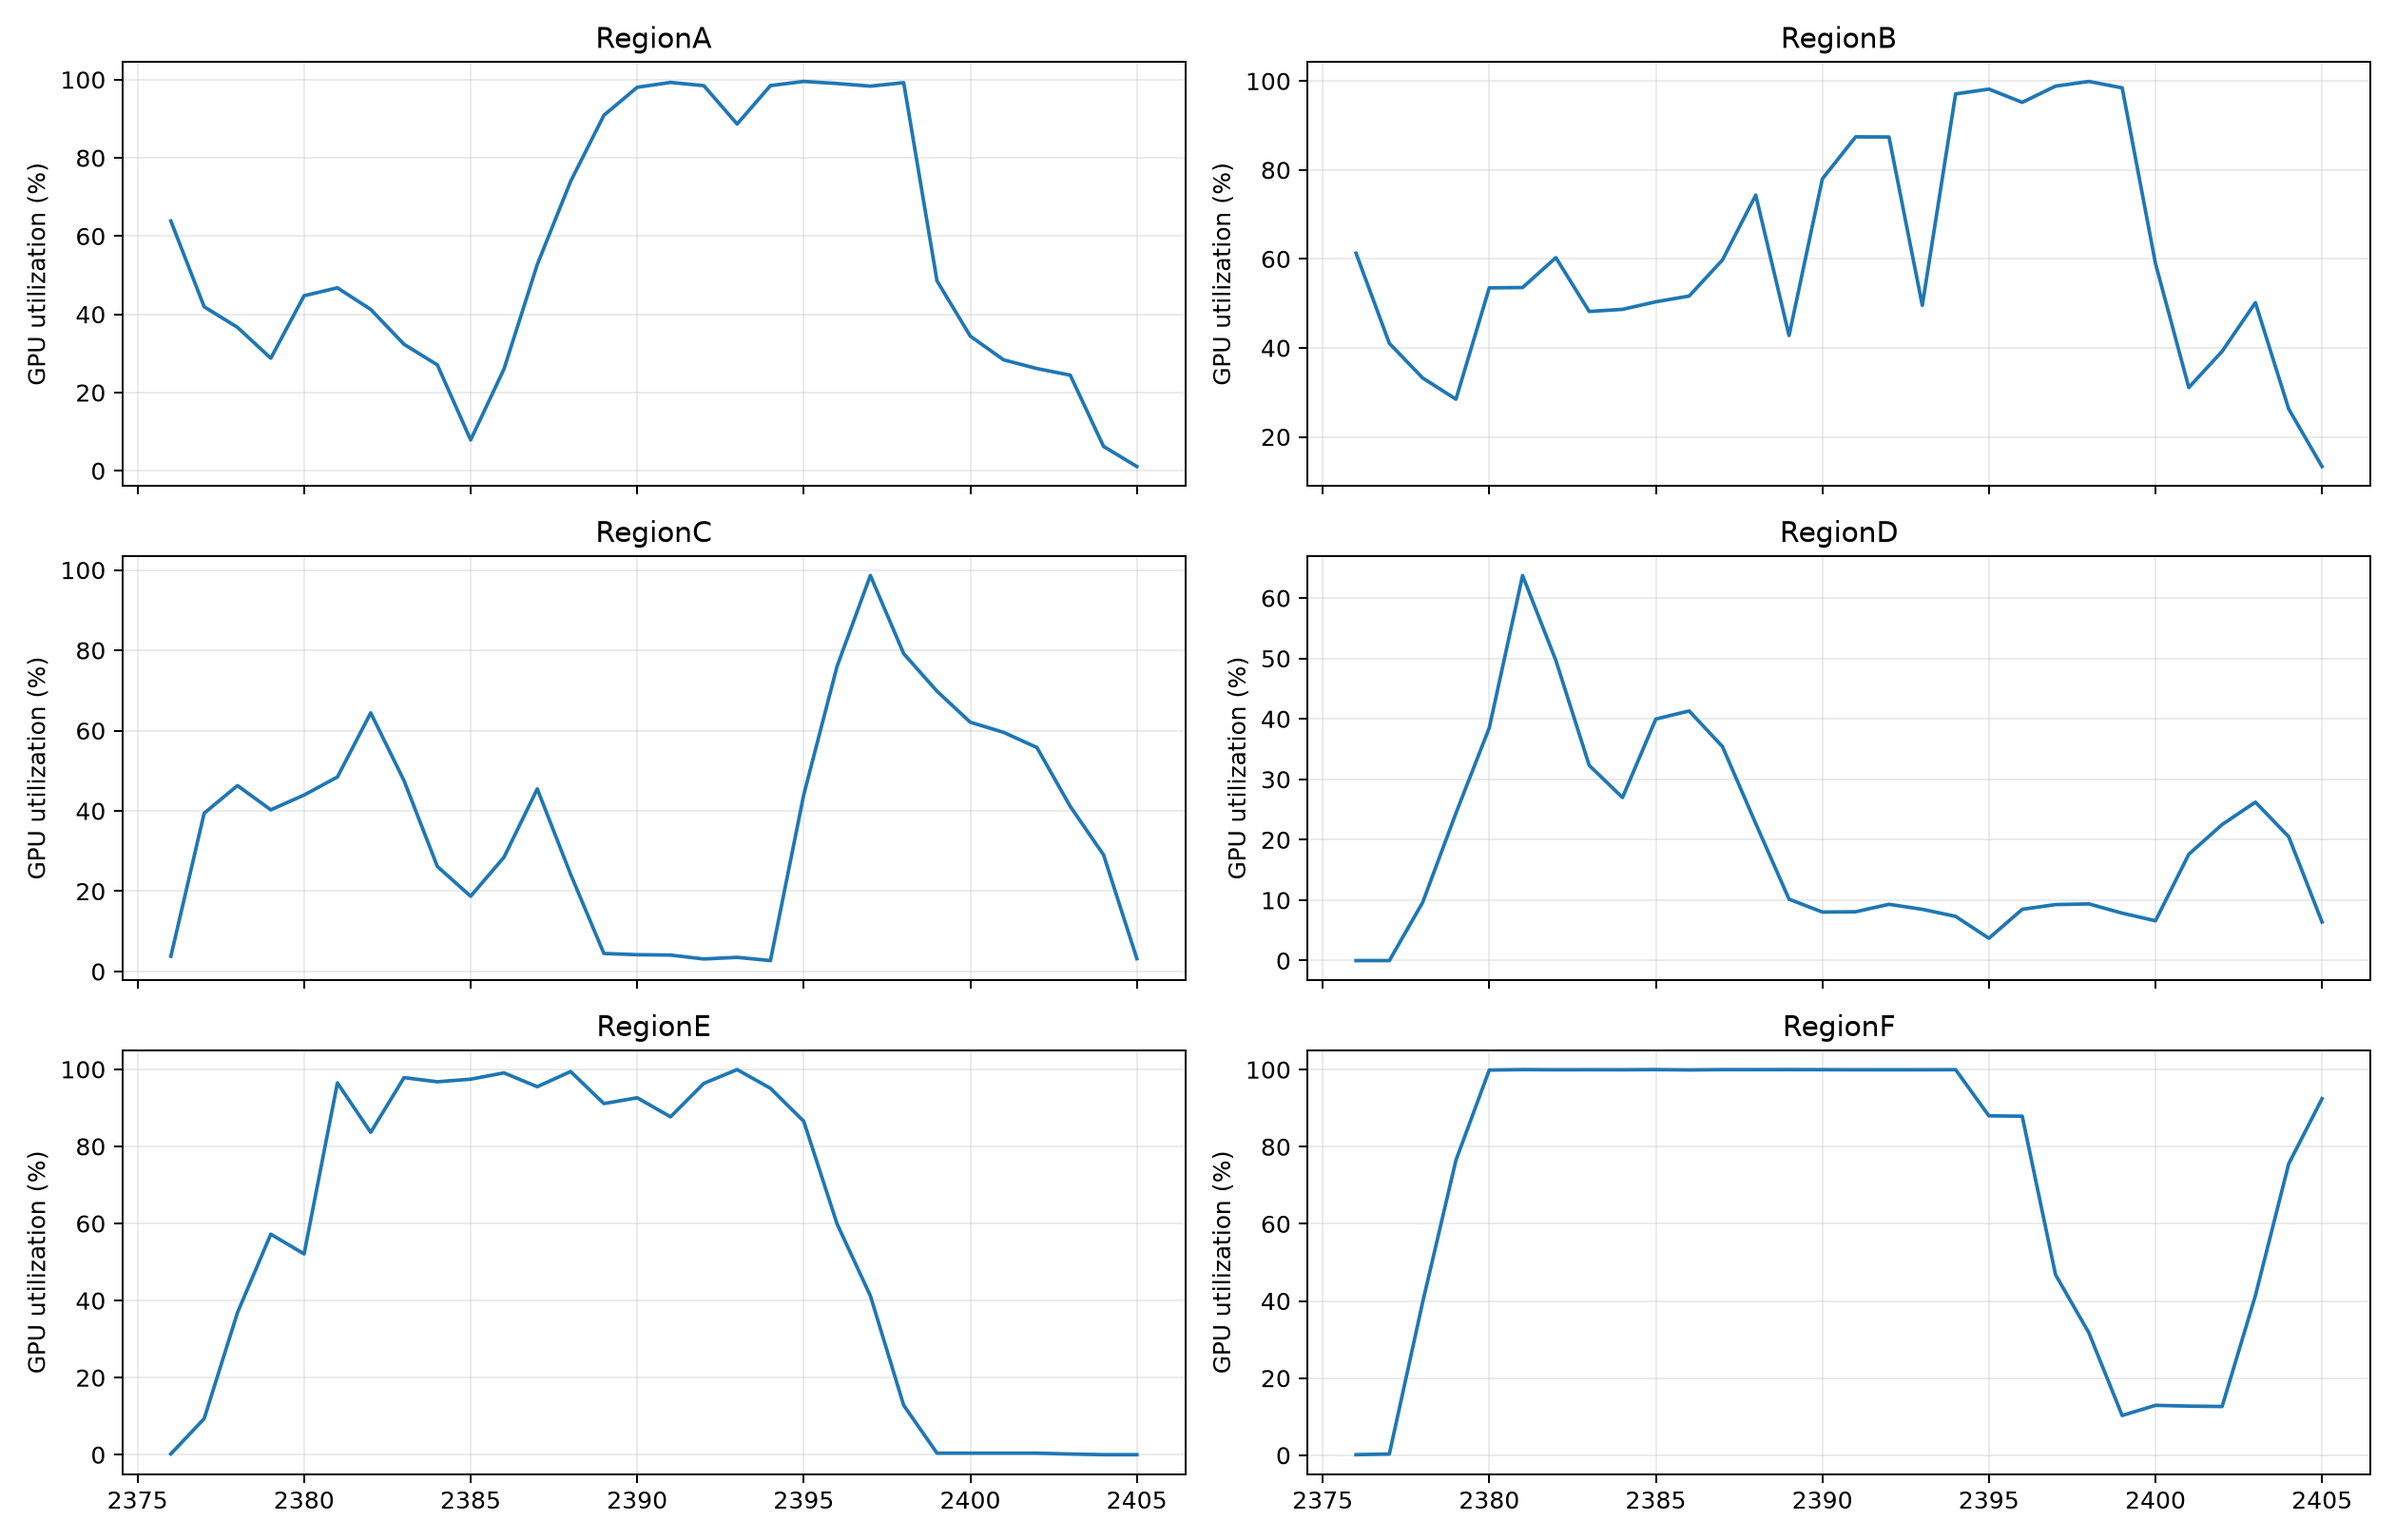
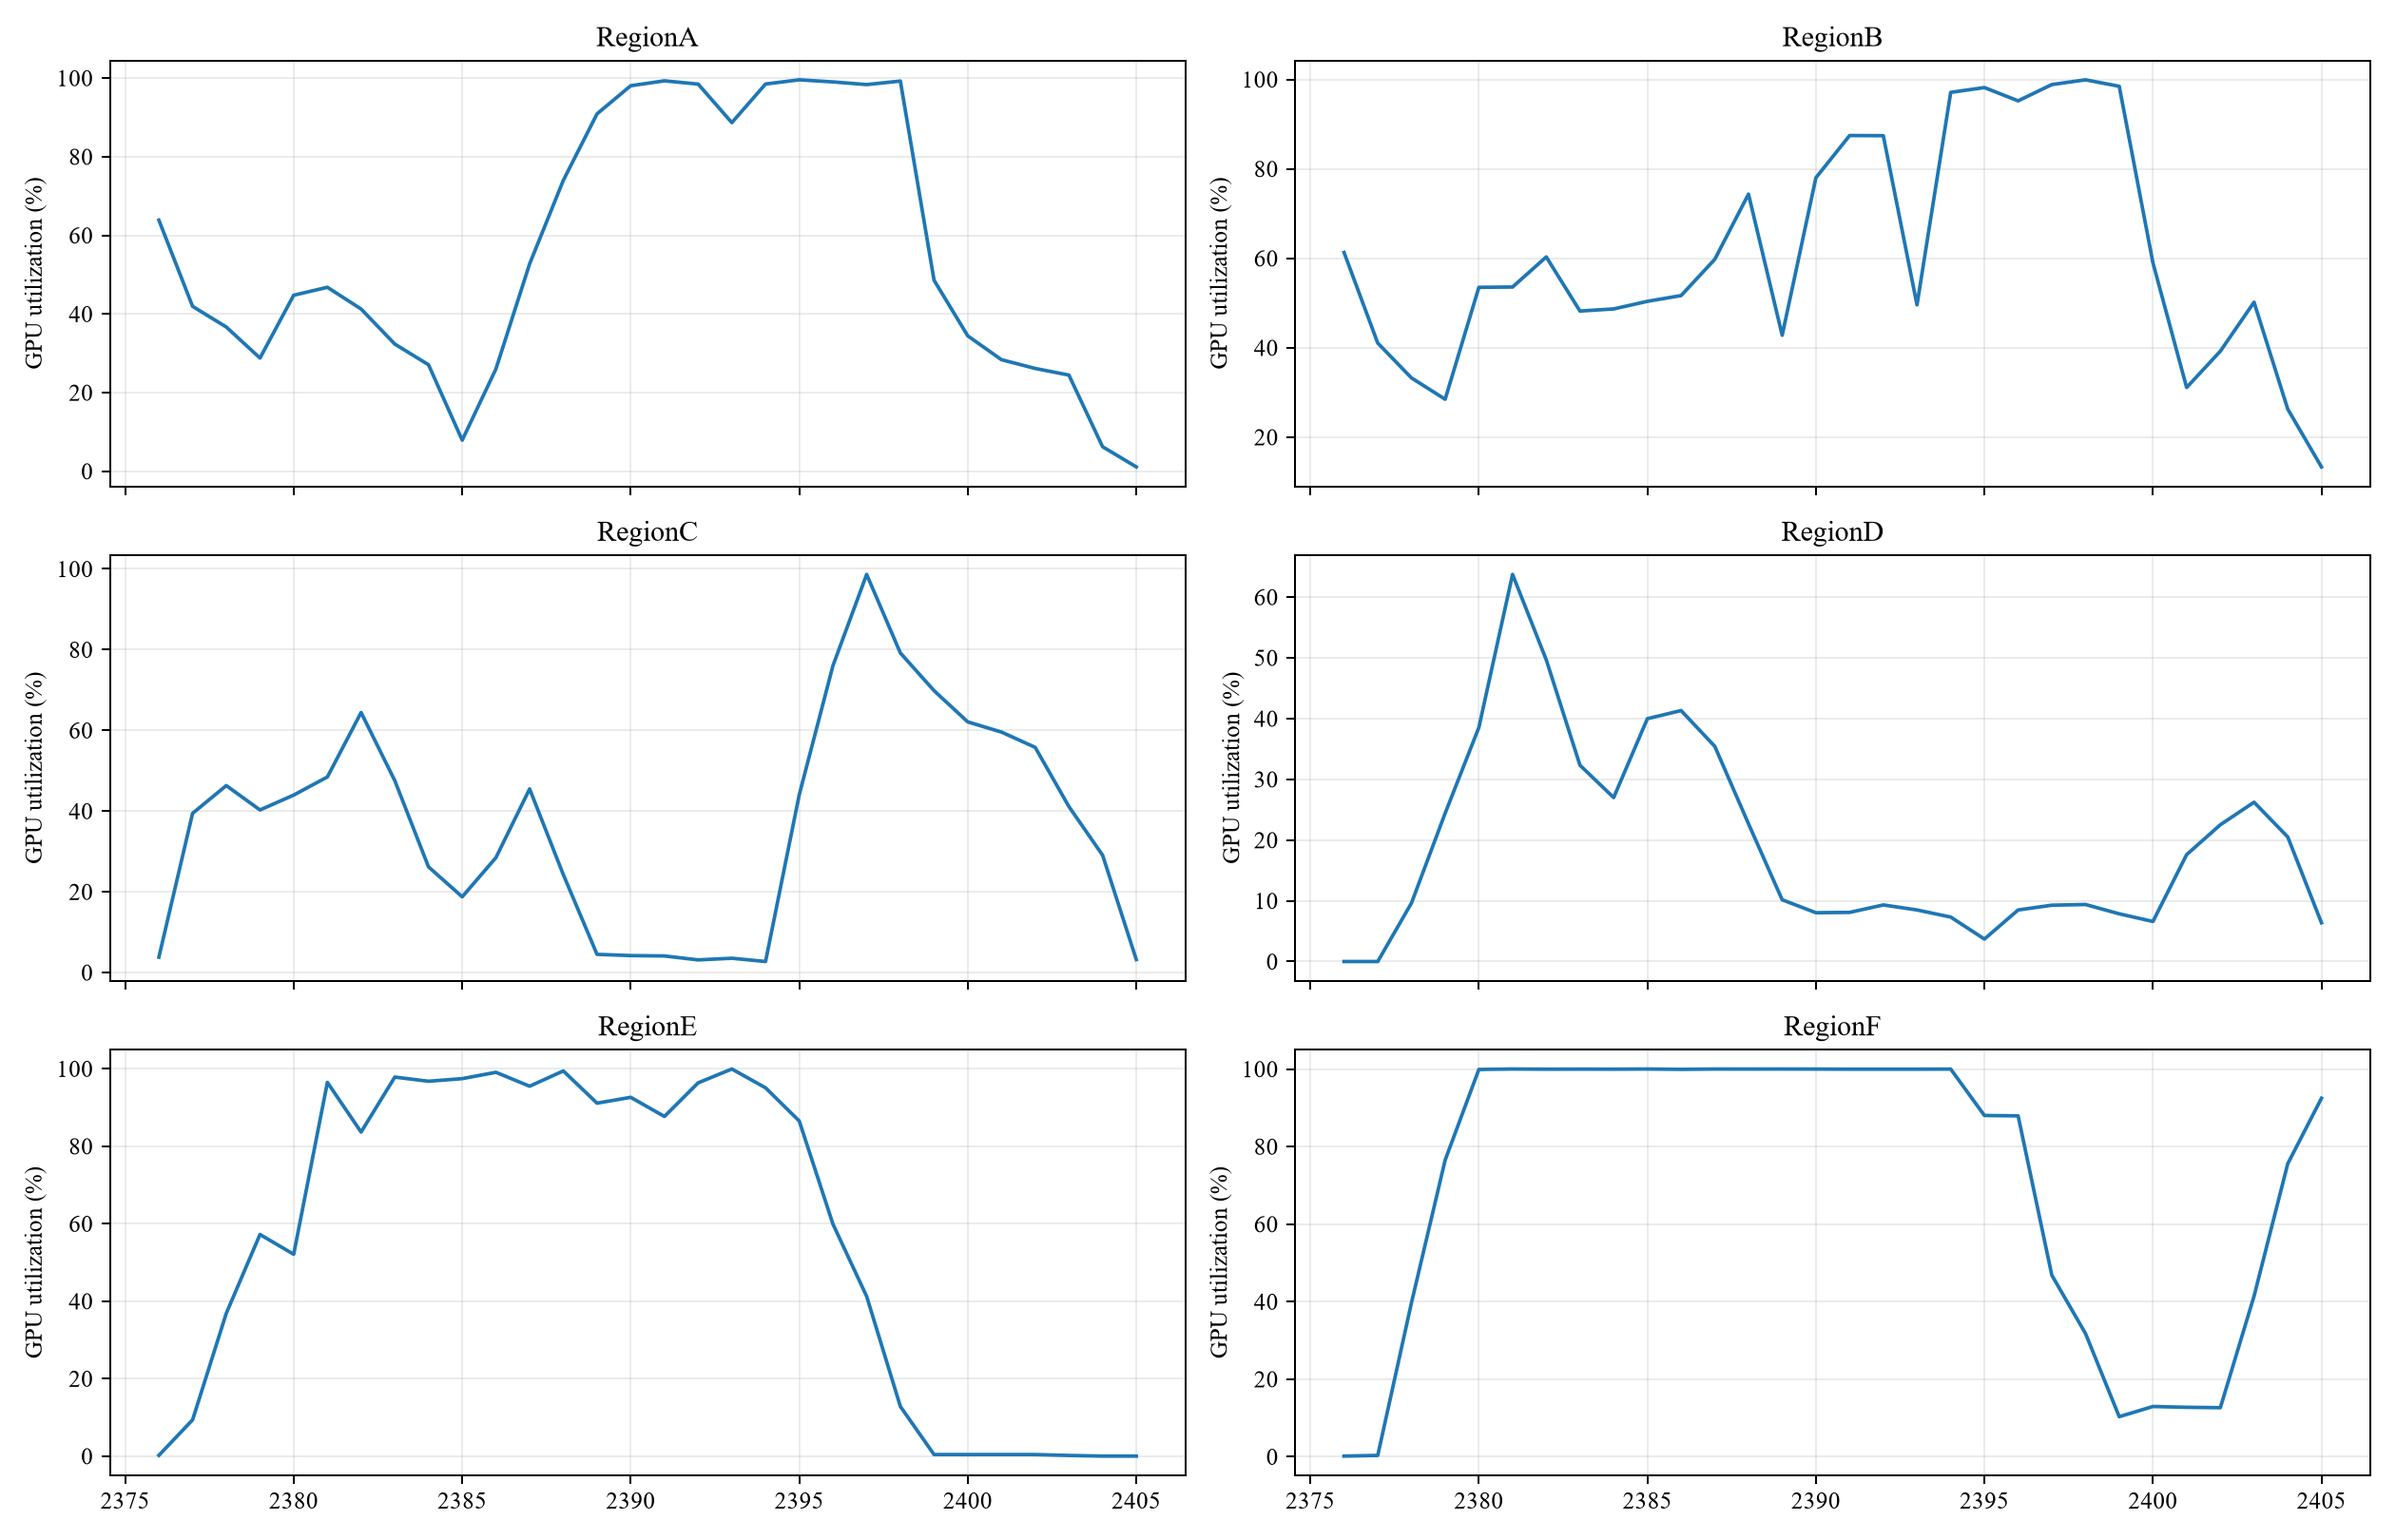
优化问题二图表样式并修订分析报告归因与结果解释

diff --git a/t2/dataToImg.py b/t2/dataToImg.py
@@ -1,10 +1,10 @@
 #!/usr/bin/env python3
-"""使用 t2/output_gpu 中已有 CSV 生成与 CPU 版本相同格式的图表。
+"""使用 t2/output_merged 中已有 CSV 重新生成问题二图表。
 
 运行：
     python3 t2/dataToImg.py
 
-显式指定 GPU 输出目录：
+显式指定其他结果目录：
     python3 t2/dataToImg.py --output-dir t2/output_gpu
 """
 
@@ -16,12 +16,12 @@ from pathlib import Path
 
 def parse_args() -> argparse.Namespace:
     here = Path(__file__).resolve().parent
-    parser = argparse.ArgumentParser(description="根据问题二 GPU 版输出 CSV 重新生成图表")
+    parser = argparse.ArgumentParser(description="根据问题二合并输出 CSV 重新生成图表")
     parser.add_argument(
         "--output-dir",
         type=Path,
-        default=here / "output_gpu",
-        help="GPU 版结果目录，默认 t2/output_gpu",
+        default=here / "output_merged",
+        help="结果目录，默认 t2/output_merged",
     )
     return parser.parse_args()
 
@@ -65,7 +65,13 @@ def make_plots(output_dir: Path) -> None:
 
     plot_dir = output_dir / "plots"
     plot_dir.mkdir(parents=True, exist_ok=True)
-    plt.rcParams["axes.unicode_minus"] = False
+    plt.rcParams.update(
+        {
+            "font.family": "serif",
+            "font.serif": ["Times New Roman", "SimSun"],
+            "axes.unicode_minus": False,
+        }
+    )
 
     plotted = metrics.dropna(subset=["OperatingCost_CNY"])
     ax = plotted.set_index("Scenario")[["OperatingCost_CNY", "CarbonEmission_tCO2"]].plot(
@@ -82,7 +88,19 @@ def make_plots(output_dir: Path) -> None:
     migration = scheme_b.groupby(
         ["SourceRegion", "ExecRegion"], observed=False
     )["GPU_h"].sum().unstack(fill_value=0)
-    ax = migration.plot(kind="bar", stacked=True, figsize=(11, 5))
+    ax = migration.plot(
+        kind="bar",
+        stacked=True,
+        figsize=(11, 5),
+        color=[
+            "#3E73B5",
+            "#DD6E29",
+            "#4DAF4A",
+            "#F1B744",
+            "#9467BD",
+            "#5BC0BE",
+        ][: len(migration.columns)],
+    )
     ax.set_ylabel("Migrated / executed GPU-hour")
     plt.tight_layout()
     plt.savefig(plot_dir / "migration_flow_by_source.png", dpi=180)
